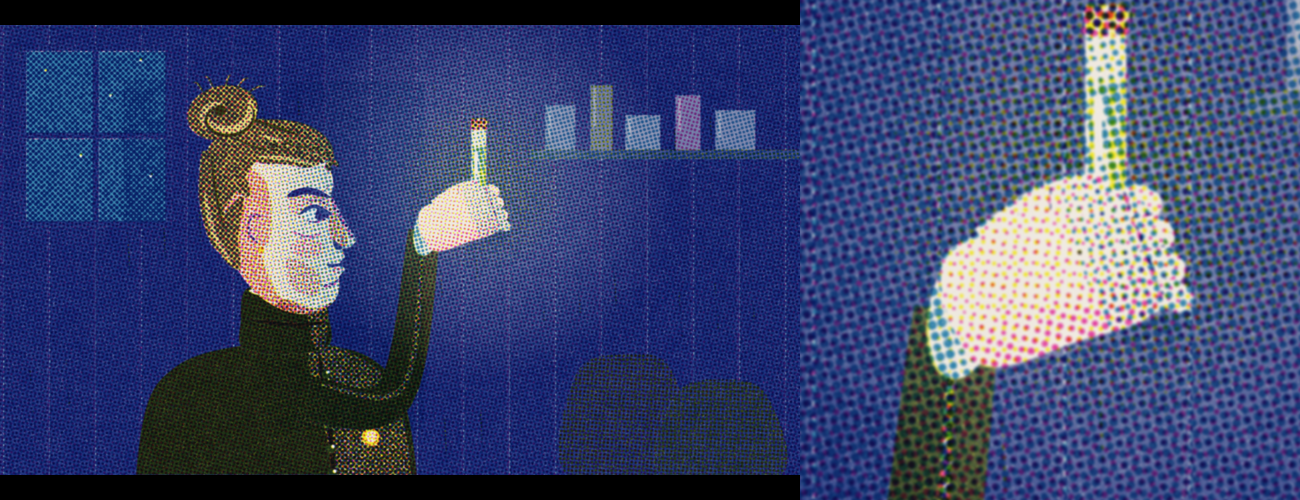
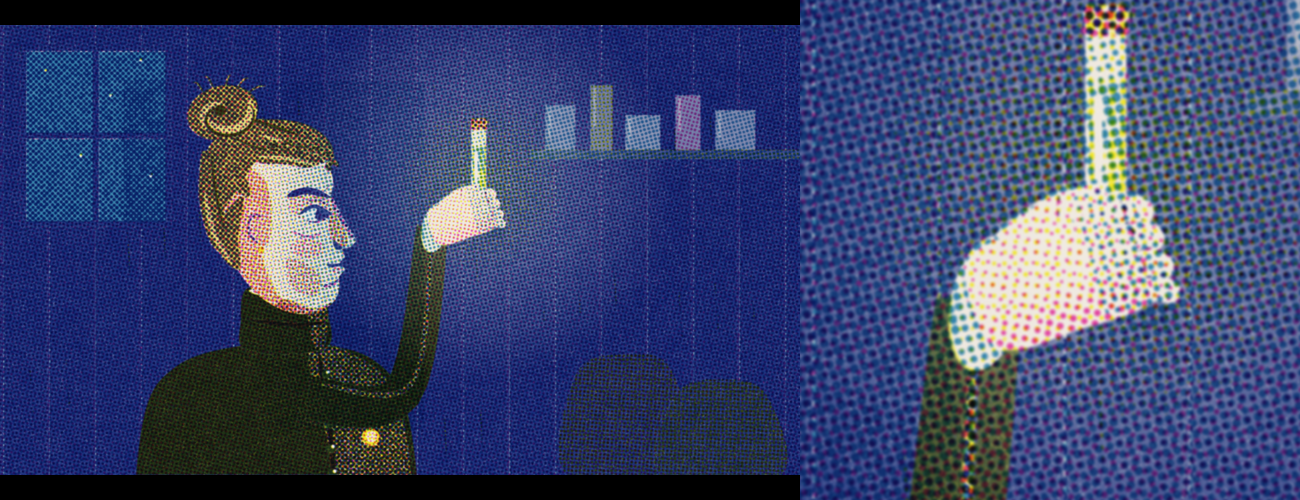
physics-history: Curie's hand a woman's size; hands skill: women's hands about 0.85
Claude-Session: https://claude.ai/code/session_01FbC8jfwG91neyKwZD6gkGH

Changed region(s): [[0.6769, 0.33, 0.9231, 1.0], [0.2769, 0.36, 0.4, 0.81], [0.2462, 0.75, 0.2769, 0.78]]

diff --git a/sandbox/2026-09-25-physics-history/segments/curie-radium.js b/sandbox/2026-09-25-physics-history/segments/curie-radium.js
@@ -84,7 +84,7 @@ var Seg = globalThis.Seg ?? (globalThis.Seg = {});
     // hand seen from its back with the fingers pointing forward has its thumb on top). Local
     // units: the tube's axis at x = 0, y down; screen px at Z = 1.
     function hand(press, o) {
-        const G = [TB[0], TB[1] + TL * 0.36], K = 0.68, ca = Math.cos(-0.35), sa = Math.sin(-0.35);
+        const G = [TB[0], TB[1] + TL * 0.36], K = 0.58, ca = Math.cos(-0.35), sa = Math.sin(-0.35);
         const X = (x, y) => [G[0] + (x * ca - y * sa) * K, G[1] + (x * sa + y * ca) * K];
         const EDGE = { 'pink.s': 0.6, 'navy.s': 0.45 };
         // the fingers curling round the tube, beyond the knuckles (index at top)
@@ -180,7 +180,7 @@ var Seg = globalThis.Seg ?? (globalThis.Seg = {});
             const t = tq, c = cam(t);
             layer(press, c, 0.7, () => shed(press, t));
             layer(press, c, 1, () => {
-                const wr = [TB[0] - 170 * 0.68 * Math.cos(-0.35) + 7 * 0.68 * Math.sin(-0.35), TB[1] + TL * 0.36 - 170 * 0.68 * Math.sin(-0.35) + 7 * 0.68 * Math.cos(-0.35)];
+                const wr = [TB[0] - 170 * 0.58 * Math.cos(-0.35) + 7 * 0.58 * Math.sin(-0.35), TB[1] + TL * 0.36 - 170 * 0.58 * Math.sin(-0.35) + 7 * 0.58 * Math.cos(-0.35)];
                 marie(press, t, [wr[0] - 60, wr[1] + 330], wr);
                 tube(press, t, 1);
                 hand(press, { t });

diff --git a/.claude/skills/hands/SKILL.md b/.claude/skills/hands/SKILL.md
@@ -60,6 +60,7 @@ It never lies along the bar or on top of the fingers' side.
   - little 24/16/14 (it ends at the ring finger's last joint).
 - Finger widths: 13 to 16.5.
 - Thumb: 20 wide, phalanges 24 and 21, its root at the heel of the palm.
+- A woman's hand is smaller: about 0.85 of these sizes (and slimmer fingers).
 - The whole hand is about the face's height, from chin to hairline. A hand smaller than
   the object it holds is almost always wrong.
 
